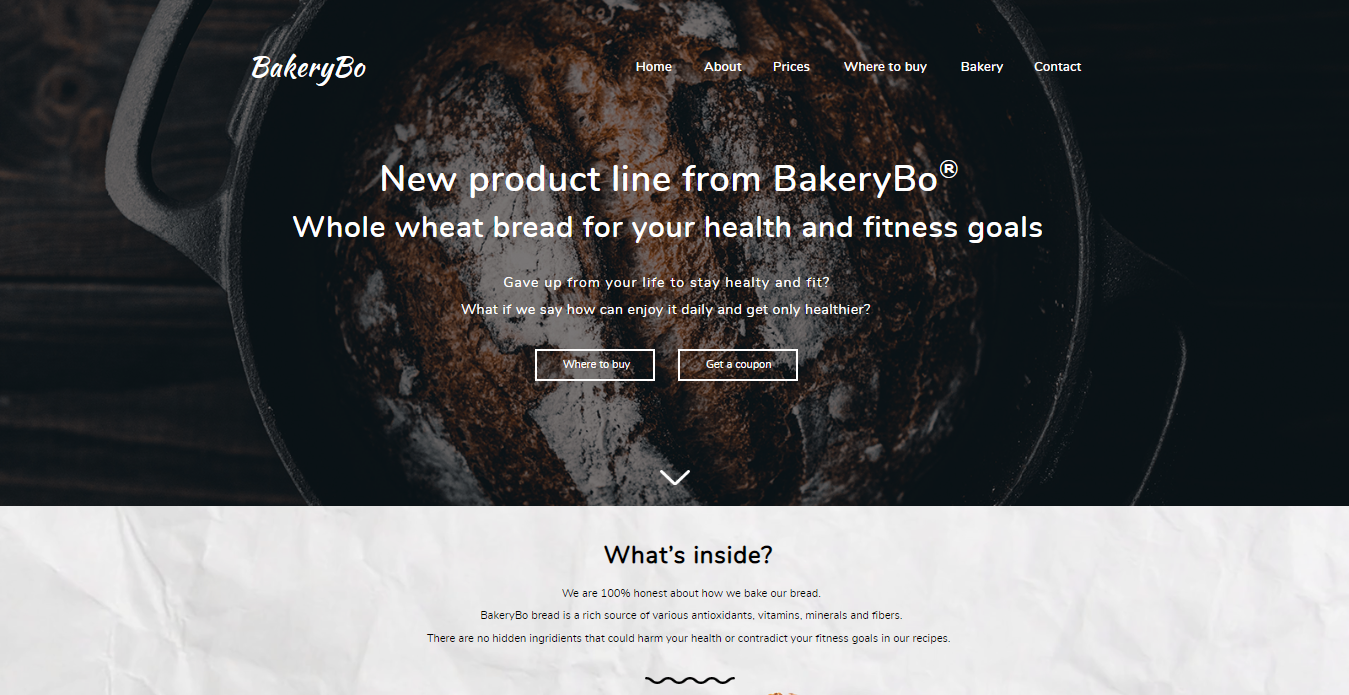
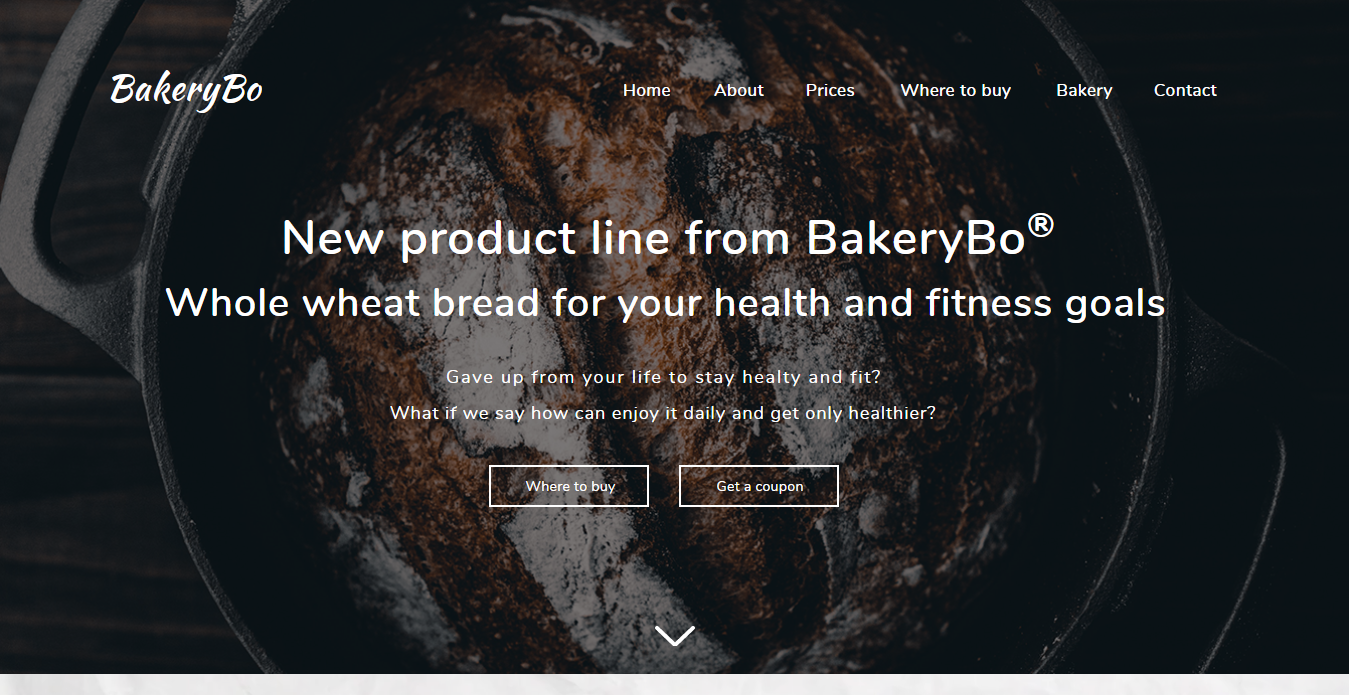
final

diff --git a/css/style.css b/css/style.css
@@ -1,6 +1,9 @@
 *{
     box-sizing: border-box;
 }
+img{
+    max-width: 100%;
+}
 body {
     background-color: #20202D;
     margin: 0;
@@ -8,8 +11,10 @@ body {
     font-family: 'Roboto', sans-serif;
 }
 .container{
+   
     max-width: 945px;
     margin: auto;
+     width: 90%;
 }
 .section{
     padding-top: 64px;
@@ -270,4 +275,178 @@ footer{
     color: #A5A5A5;
     display: inline-block;
     margin-top: 72px;
+}
+/* responsive */
+@media (max-width: 1100px) {
+    .hero-avatar{
+        width: 300px;
+        height: 300px;
+        border-width: 10px;
+        background-position: -84px -2px;
+
+    }
+        .project-image {
+            width: 70%;
+        }
+}
+/* responsive */
+@media (max-width: 900px) {
+    .hero-content{
+        flex-direction: column;
+    }
+    .hero-avatar{
+        order: 0;
+        width: 230px;
+        height: 230px;
+        border-width: 10px;
+        margin-bottom: 17px;
+        background-size: 100%;
+        background-position: center 0;
+    }
+    .hero-text{
+        order: 1;
+        text-align: center;
+    }
+    .features-item{
+        flex-basis: 45%;
+    }
+    .project-slide{
+        flex-direction: column;
+    }
+    .project-image{
+        margin-bottom: 46px;
+    }
+    .contacts-block {
+        display: flex;
+        align-items: flex-start;
+        justify-content: space-between;
+        flex-direction: column;
+    }
+    .contacts-form{
+        margin-bottom: 50px;
+    }
+}
+@media (max-width: 570px) {
+    .hero{
+        padding-bottom: 75px;
+    }
+    .logo {
+        width: 50%;
+    }
+    .hero-avatar{
+        width: 113px;
+        height: 113px;
+        border-width: 7px;
+        background-size: 100%;
+        background-position: center 0;
+    }
+    .hero-subtitle{
+        font-size: 16px;
+        line-height: 27px;
+    }
+    .hero-title{
+        font-size: 24px;
+        line-height: 28px;
+    }
+    .hero-description{
+        font-size: 14px;
+        line-height: 140%;
+    }
+    .hero-header{
+        margin-bottom: 38px;
+    }
+    .social-link{
+        margin-left: 5px;
+    }
+    .section{
+        padding-top: 63px;
+    }
+    .section-title{
+        font-size: 19px;
+        line-height: 22px;
+        margin-bottom: 60px;
+    }
+    .features-item{
+        flex-basis: 100%;
+        margin-bottom: 30px;
+    }
+    .features-title{
+        font-size: 18px;
+        line-height: 28px;
+    }
+    .features-text{
+        font-size: 14px;
+        line-height: 28px;
+    }
+    .features-item {
+        flex-basis: 100%;
+        margin-bottom: 30px;
+    }
+    .features-item:last-child {
+        margin-bottom: 0;
+    }
+    .project-time, .project-cost {
+        flex-basis: 100%;
+        margin-bottom: 33px;
+    }
+    .project-image {
+        width: 100%;
+    }
+    .projects>.container>.section-title{
+        margin-bottom: 49px;
+    }
+    footer{
+        padding-top: 2px;
+        padding-bottom: 60px;
+    }
+    .project-title{
+        font-size: 18px;
+        line-height: 150%;
+    }
+    .project-subtitle{
+        font-size: 18px;
+        line-height: 21px;
+    }
+    .project-paragraph{
+        font-size: 14px;
+        line-height: 16px;
+    }
+    .form-title{
+        font-size: 15px;
+        line-height: 140%;
+    }
+    .contacts-title{
+        font-size: 18px;
+        line-height: 21px;
+        margin-bottom: 12px;
+    }
+    .contacts-link{
+        font-size: 14px;
+        line-height: 16px;
+        margin: 0;
+    }
+    .contacts-phone, .contacts-mail{
+        flex-basis: 100%;
+        margin-bottom: 35px;
+    }
+    .contacts-title+a{
+        display: flex;
+        flex-basis: 100%;
+        margin-bottom: 13px;
+    }
+    .contacts-title+a+a{
+        display: flex;
+        flex-basis: 100%;
+        margin-bottom: 13px;
+    }
+    .contacts-title+a+a+a {
+        display: flex;
+        flex-basis: 100%;
+    }
+    .contacts-form {
+         margin-bottom: 64px;
+    }
+    .contacts-policy{
+        margin-top: 28px;
+    }
 }

diff --git a/index.html b/index.html
@@ -14,7 +14,7 @@
   <header class="hero">
     <div class="container">
         <div class="hero-header">
-            <img src="img/logo.png" alt="logo glo" class="logo">
+            <img src="img/logo.png" alt="logo DmitriyBludov" class="logo">
             <div class="social-links">
                 <a href="https://github.com/DmitriyBludov" class="social-link"><img src="img\social\github.svg" alt="github"></a>
                 <a href="https://www.facebook.com/dmitriy.bludov.7" class="social-link"><img src="img\social\facebook.svg" alt="facebook"></a>
